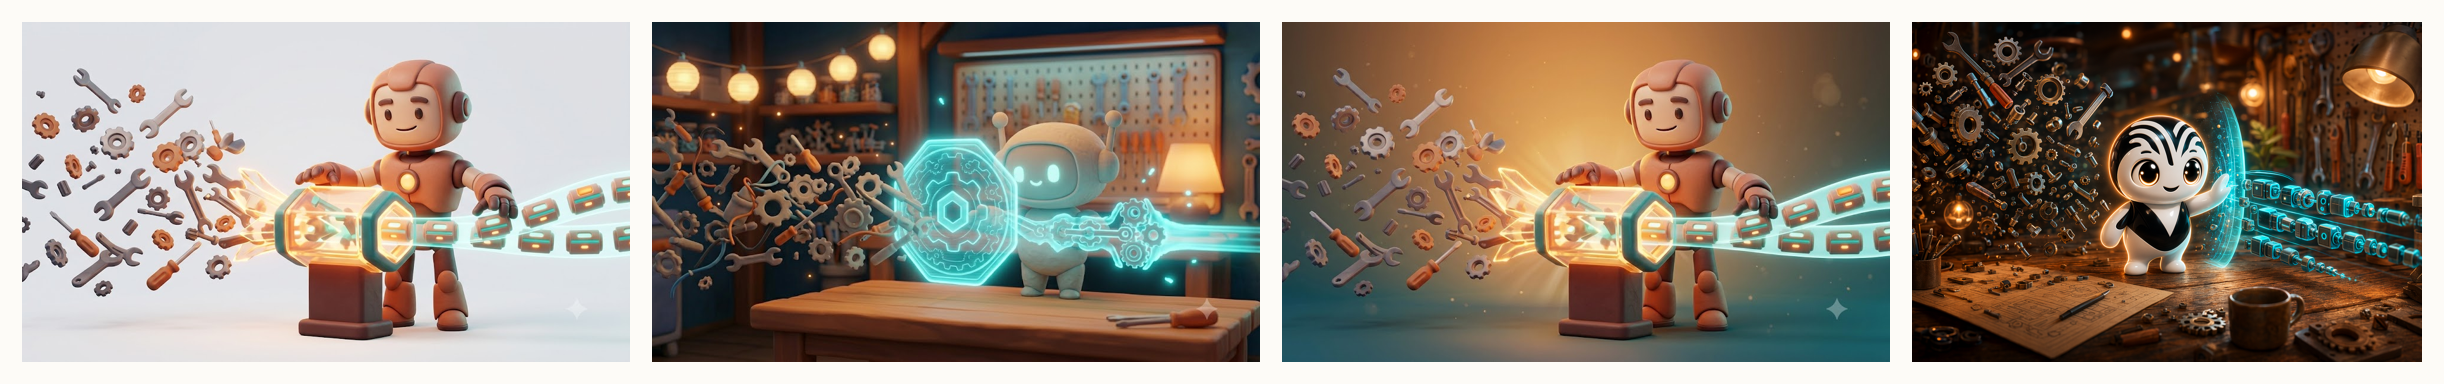
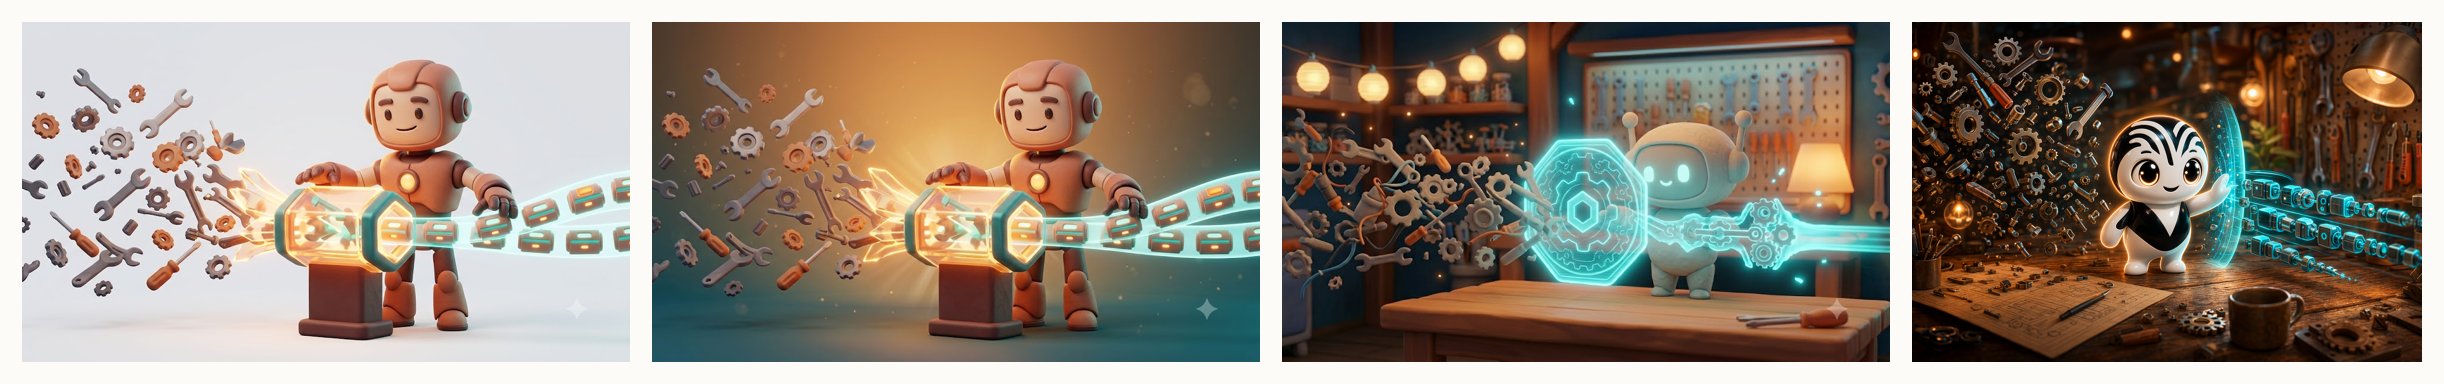
fix(resources): correct evolution order + clarify precision comes after calibration
- evolution montage reordered: robot white -> robot orange -> mascot -> VB
- text: the first-shot precision is the result of calibrating the skill, not immediate

diff --git a/content/articles/focus-skill-images.md b/content/articles/focus-skill-images.md
@@ -118,13 +118,13 @@ Sur cette image, j'ai pris une décision : remplacer le personnage lambda par mo
 
 ![Avant, une personne lambda devant l'écran. Après, mon propre avatar dans la même scène](/images/resources/focus-skill-images/avatar-avant-apres.png "Remplacer la personne lambda par mon avatar")
 
-Et on n'arrive pas du premier coup. Sur une même image, on itère plusieurs versions avant de tomber juste.
+Au début, on n'arrive pas du premier coup. Sur une même image, on itère plusieurs versions pour caler le skill.
 
 ![Quatre versions d'une même cover, jusqu'à ce qu'elle tombe juste](/images/resources/focus-skill-images/iteration-4versions.png "On itère une même image sur plusieurs versions")
 
 Avant, mes images étaient minimalistes, un objet posé seul sur un fond dégradé. Propre, mais pauvre. Après, des scènes habitées, avec la mascotte, et mon avatar quand l'article parle de moi.
 
-Ce qui m'a le plus surpris, c'est la précision. Très souvent, la première image sortie est la bonne. Elle fait presque exactement ce qu'on voulait, je n'ai rien à reprendre. Pour quelqu'un qui s'attend à enchaîner dix versions, c'est un vrai changement.
+Et une fois le skill bien calé, ce qui m'a le plus surpris, c'est la précision. La première image sortie est alors presque toujours la bonne, je n'ai rien à reprendre. Ce n'est pas magique dès le départ, c'est le fruit de ces itérations. Mais une fois le skill réglé, pour quelqu'un qui s'attend à enchaîner dix versions, c'est un vrai changement.
 
 Reste deux limites. Le texte dans les images n'est pas fiable, le modèle écrit souvent du charabia, une fois il m'a sorti un « PERSONAL WATCHLIST » écrit n'importe comment. C'est pour ça que le negative prompt bannit le mot text, et que je conçois des visuels qui ne dépendent d'aucun texte lisible. Et il faut penser à varier le décor entre deux articles voisins pour ne pas se répéter.
 